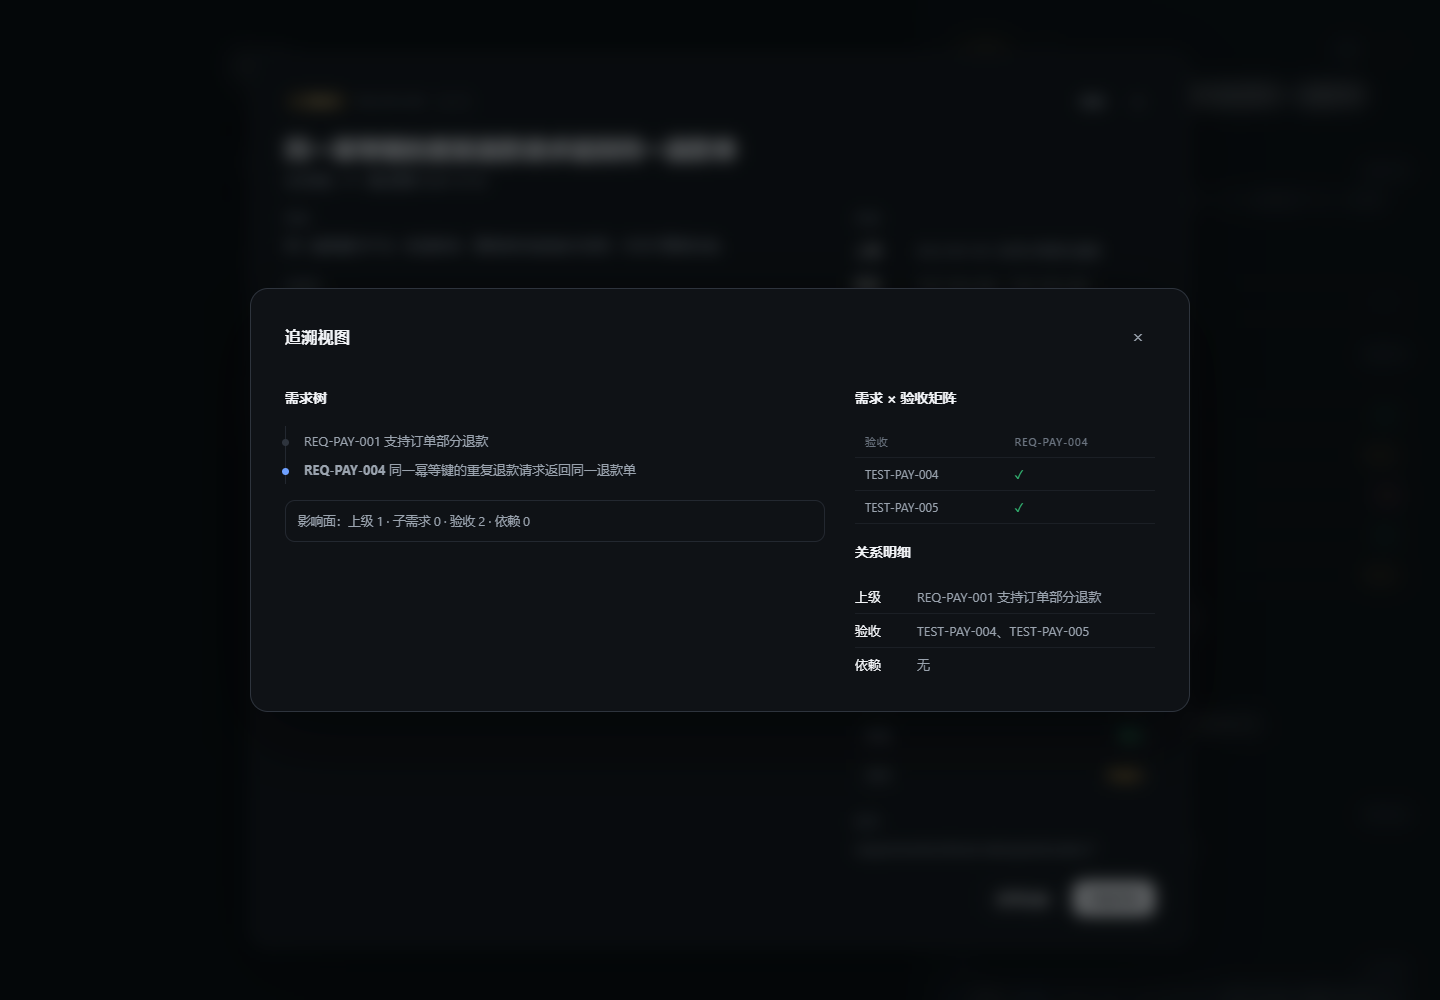
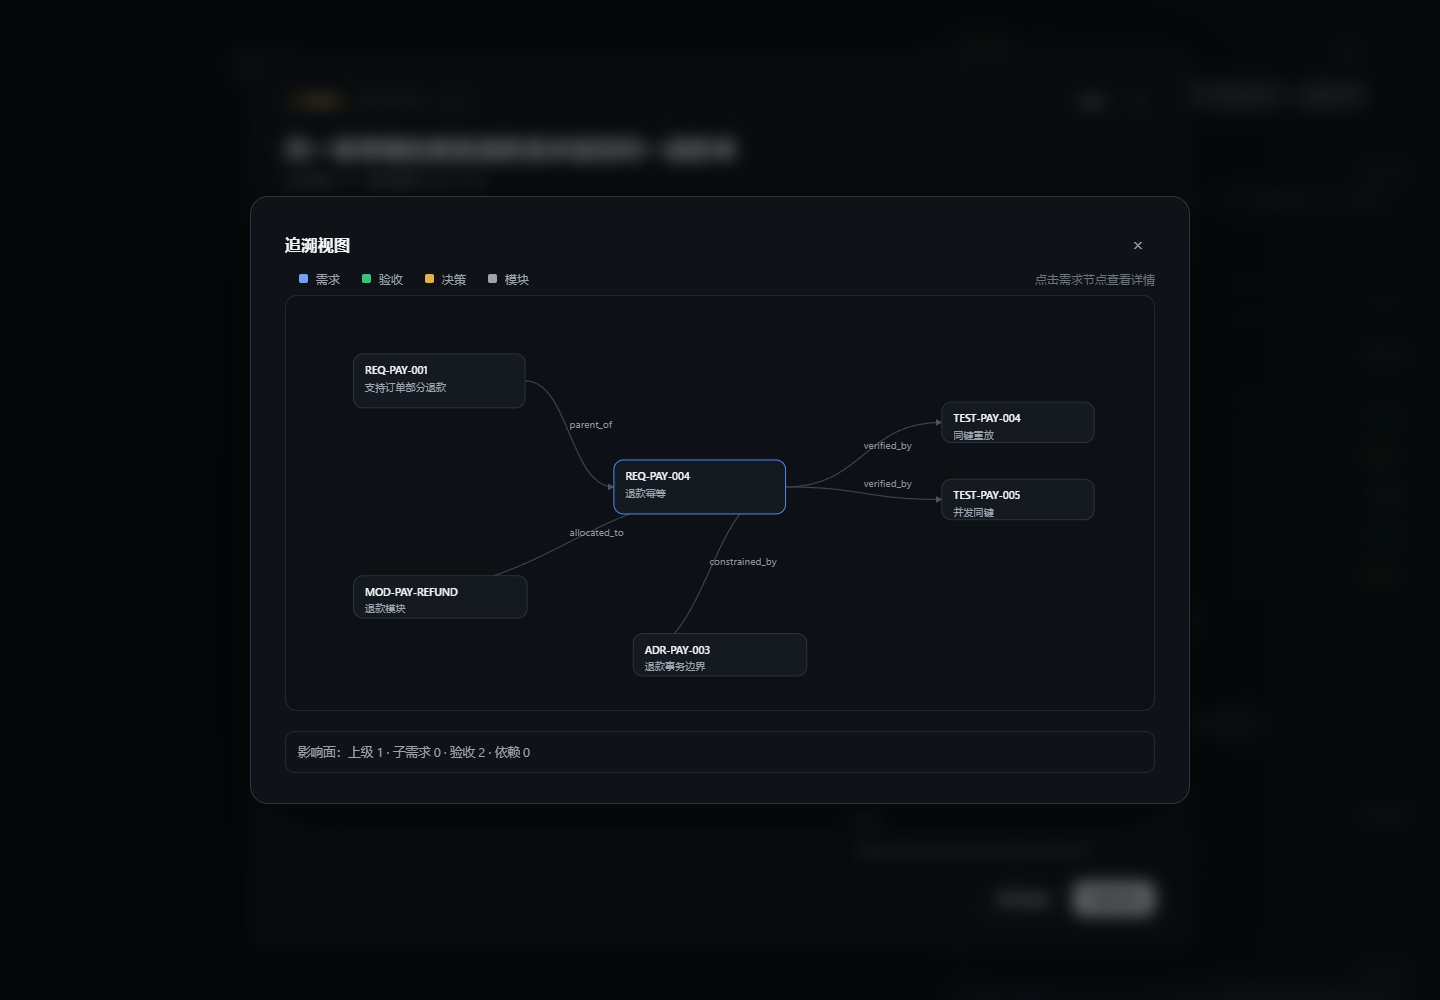
design: 追溯视图改为图形展示，节点可打开需求详情

diff --git a/docs/design/requirements-workbench-prototype.html b/docs/design/requirements-workbench-prototype.html
@@ -169,6 +169,22 @@
   .matrix th { color: var(--text-3); font-weight: 500; font-size: 11px; text-transform: uppercase; letter-spacing: .06em; }
   .matrix .ok { color: var(--green); }
   .impact { margin-top: 16px; padding: 12px; border: 1px solid var(--line); border-radius: 10px; font-size: 12.5px; color: var(--text-2); }
+  .graph-legend { display: flex; align-items: center; gap: 8px; font-size: 12px; color: var(--text-2); margin: 10px 0 8px; flex-wrap: wrap; }
+  .lg { width: 9px; height: 9px; border-radius: 2px; display: inline-block; margin-left: 14px; }
+  .lg.req { background: var(--blue); }
+  .lg.test { background: var(--green); }
+  .lg.adr { background: var(--amber); }
+  .lg.module { background: var(--text-2); }
+  .lg-hint { margin-left: auto; color: var(--text-3); }
+  .graph { width: 100%; height: auto; background: #0d1014; border: 1px solid var(--line); border-radius: 12px; }
+  .gnode rect { fill: #151a20; stroke: #2c333d; stroke-width: 1; transition: fill 150ms, stroke 150ms; }
+  .gnode:hover rect, .gnode:focus-visible rect { fill: #1a2028; stroke: #4d8dff; }
+  .gnode.current rect { stroke: #4d8dff; }
+  .gnode { cursor: pointer; outline: none; }
+  .gnode-id { fill: var(--text); font-size: 11px; font-family: var(--font); font-weight: 600; }
+  .gnode-title { fill: var(--text-2); font-size: 10.5px; font-family: var(--font); }
+  .gedge path { fill: none; stroke: #3a4450; stroke-width: 1.2; }
+  .gedge-label { fill: #8b95a3; font-size: 10.5px; font-family: var(--font); }
   [hidden] { display: none !important; }
 </style>
 </head>
@@ -352,6 +368,25 @@
       checks: ['同键重放返回同一 refundId，且不新增退款记录', '并发同键请求只产生一条退款单'],
       acceptState: '已覆盖 2/2 · 未验证',
       relations: [['上级', ['REQ-PAY-001 支持订单部分退款']], ['验收', ['TEST-PAY-004', 'TEST-PAY-005']], ['依赖', []]],
+      graph: {
+        stats: { parent: 1, children: 0, tests: 2 },
+        nodes: [
+          { id: 'REQ-PAY-001', label: 'REQ-PAY-001 支持订单部分退款', type: 'req', x: 70, y: 60 },
+          { id: 'REQ-PAY-004', label: 'REQ-PAY-004 退款幂等', type: 'req', x: 340, y: 170 },
+          { id: 'TEST-PAY-004', label: 'TEST-PAY-004 同键重放', type: 'test', x: 680, y: 110 },
+          { id: 'TEST-PAY-005', label: 'TEST-PAY-005 并发同键', type: 'test', x: 680, y: 190 },
+          { id: 'ADR-PAY-003', label: 'ADR-PAY-003 退款事务边界', type: 'adr', x: 360, y: 350 },
+          { id: 'MOD-PAY-REFUND', label: 'MOD-PAY-REFUND 退款模块', type: 'module', x: 70, y: 290 }
+        ],
+        edges: [
+          { from: 'REQ-PAY-001', to: 'REQ-PAY-004', label: 'parent_of' },
+          { from: 'REQ-PAY-004', to: 'TEST-PAY-004', label: 'verified_by' },
+          { from: 'REQ-PAY-004', to: 'TEST-PAY-005', label: 'verified_by' },
+          { from: 'REQ-PAY-004', to: 'ADR-PAY-003', label: 'constrained_by' },
+          { from: 'REQ-PAY-004', to: 'MOD-PAY-REFUND', label: 'allocated_to' }
+        ]
+      },
+
       versions: [
         ['v2.1.0', 'MINOR', '2026-10-30', 'CHG-PAY-004', '新增并发验收与幂等记录说明'],
         ['v2.0.1', 'PATCH', '2026-10-29', 'CHG-PAY-003', '修正背景里的错别字'],
@@ -374,6 +409,23 @@
       checks: ['部分退款金额与订单状态一致'],
       acceptState: '已覆盖 1/1 · 未验证',
       relations: [['子需求', ['REQ-PAY-004 退款幂等']], ['验收', ['TEST-PAY-001']], ['依赖', []]],
+      graph: {
+        stats: { parent: 0, children: 1, tests: 1 },
+        nodes: [
+          { id: 'REQ-PAY-001', label: 'REQ-PAY-001 支持订单部分退款', type: 'req', x: 330, y: 160 },
+          { id: 'REQ-PAY-004', label: 'REQ-PAY-004 退款幂等', type: 'req', x: 640, y: 100 },
+          { id: 'TEST-PAY-001', label: 'TEST-PAY-001 金额与状态', type: 'test', x: 640, y: 250 },
+          { id: 'ADR-PAY-003', label: 'ADR-PAY-003 退款事务边界', type: 'adr', x: 340, y: 340 },
+          { id: 'MOD-PAY-REFUND', label: 'MOD-PAY-REFUND 退款模块', type: 'module', x: 70, y: 270 }
+        ],
+        edges: [
+          { from: 'REQ-PAY-001', to: 'REQ-PAY-004', label: 'parent_of' },
+          { from: 'REQ-PAY-001', to: 'TEST-PAY-001', label: 'verified_by' },
+          { from: 'REQ-PAY-001', to: 'ADR-PAY-003', label: 'constrained_by' },
+          { from: 'REQ-PAY-001', to: 'MOD-PAY-REFUND', label: 'allocated_to' }
+        ]
+      },
+
       versions: [['v1.0.0', 'MAJOR', '2026-10-23', 'CHG-PAY-001', '初始版本']],
       tech: { file: 'requirements/refund.sdoc:7', manifest: '无附件', rules: 'COV-001 / REL-002 通过' },
       tasks: [['需求与验收资产', '补齐验收与关系（requirements/ · tests/）'], ['实现（退款模块）', '退款金额与订单状态一次事务内更新'], ['门禁、差异与证据', 'check / diff / impact，落 alm.evidence/v1']]
@@ -578,30 +630,51 @@
 
   function openTrace(id) {
     const req = REQS.find((r) => r.id === id)
-    if (!req) return
-    const parent = req.relations.find(([label]) => label === '上级')?.[1] ?? []
-    const children = req.relations.find(([label]) => label === '子需求')?.[1] ?? []
-    const tests = req.relations.find(([label]) => label === '验收')?.[1] ?? []
+    if (!req || !req.graph) return
+    const W = { req: 178, test: 158, adr: 180, module: 180 }
+    const H = { req: 56, test: 42, adr: 44, module: 44 }
+    const nodes = req.graph.nodes
+      .map((n) => {
+        const w = W[n.type]
+        const h = H[n.type]
+        const title = n.label.replace(n.id, '').trim()
+        const label = title.length > 18 ? `${title.slice(0, 17)}…` : title
+        const cls = n.type === 'req' ? (n.id === req.id ? 'gnode current' : 'gnode') : 'gnode'
+        return `<g class="${cls}" data-node="${n.id}" tabindex="0" role="button" aria-label="${n.label}">
+          <rect x="${n.x}" y="${n.y}" width="${w}" height="${h}" rx="10"></rect>
+          <text x="${n.x + 12}" y="${n.y + 21}" class="gnode-id">${n.id}</text>
+          <text x="${n.x + 12}" y="${n.y + 38}" class="gnode-title">${label}</text>
+        </g>`
+      })
+      .join('')
+    const edges = req.graph.edges
+      .map((e) => {
+        const from = req.graph.nodes.find((n) => n.id === e.from)
+        const to = req.graph.nodes.find((n) => n.id === e.to)
+        if (!from || !to) return ''
+        const x1 = from.x + W[from.type]
+        const y1 = from.y + H[from.type] / 2
+        const x2 = to.x
+        const y2 = to.y + H[to.type] / 2
+        const mx = (x1 + x2) / 2
+        const my = (y1 + y2) / 2
+        return `<g class="gedge"><path d="M${x1} ${y1} C${mx} ${y1} ${mx} ${y2} ${x2} ${y2}" marker-end="url(#arrow)"></path><text x="${mx}" y="${my - 6}" class="gedge-label">${e.label}</text></g>`
+      })
+      .join('')
     el('traceBody').innerHTML = `
-      <div class="detail-grid" style="margin-top:16px">
-        <div>
-          <h4>需求树</h4>
-          <ul class="tree">
-            ${parent.map((p) => `<li>${p}</li>`).join('')}
-            <li class="current"><b>${req.id}</b> ${req.title}</li>
-            ${children.map((c) => `<li>${c}</li>`).join('')}
-          </ul>
-          <div class="impact">影响面：上级 ${parent.length} · 子需求 ${children.length} · 验收 ${tests.length} · 依赖 0</div>
-        </div>
-        <div>
-          <h4>需求 × 验收矩阵</h4>
-          <table class="matrix"><thead><tr><th>验收</th><th>${req.id}</th></tr></thead><tbody>
-            ${tests.map((t) => `<tr><td>${t}</td><td class="ok">✓</td></tr>`).join('')}
-          </tbody></table>
-          <h4>关系明细</h4>
-          ${req.relations.map(([label, items]) => `<div class="rel"><b>${label}</b><span>${items.length ? items.join('、') : '无'}</span></div>`).join('')}
-        </div>
-      </div>`
+      <div class="graph-legend">
+        <span class="lg req"></span>需求
+        <span class="lg test"></span>验收
+        <span class="lg adr"></span>决策
+        <span class="lg module"></span>模块
+        <span class="lg-hint">点击需求节点查看详情</span>
+      </div>
+      <svg class="graph" viewBox="0 0 900 430" role="img" aria-label="需求追溯图">
+        <defs><marker id="arrow" viewBox="0 0 10 10" refX="9" refY="5" markerWidth="6" markerHeight="6" orient="auto-start-reverse"><path d="M0 0 L10 5 L0 10 z" fill="#4a5563"></path></marker></defs>
+        ${edges}
+        ${nodes}
+      </svg>
+      <div class="impact">影响面：上级 ${req.graph.stats.parent} · 子需求 ${req.graph.stats.children} · 验收 ${req.graph.stats.tests} · 依赖 0</div>`
     el('traceModal').hidden = false
   }
 
@@ -628,6 +701,13 @@
     if (start) { event.stopPropagation(); openStart(start.dataset.start); return }
     const versionEl = event.target.closest('[data-version]')
     if (versionEl) { openSnapshot(versionEl.dataset.version); return }
+    const nodeEl = event.target.closest('[data-node]')
+    if (nodeEl) {
+      const nodeId = nodeEl.dataset.node
+      if (nodeId.startsWith('REQ-')) { closeTrace(); openDetail(nodeId) }
+      else toast('打开 ' + nodeId + '（原型占位）')
+      return
+    }
     const cardEl = event.target.closest('.card')
     if (cardEl) openDrawer(cardEl.dataset.id)
   })
